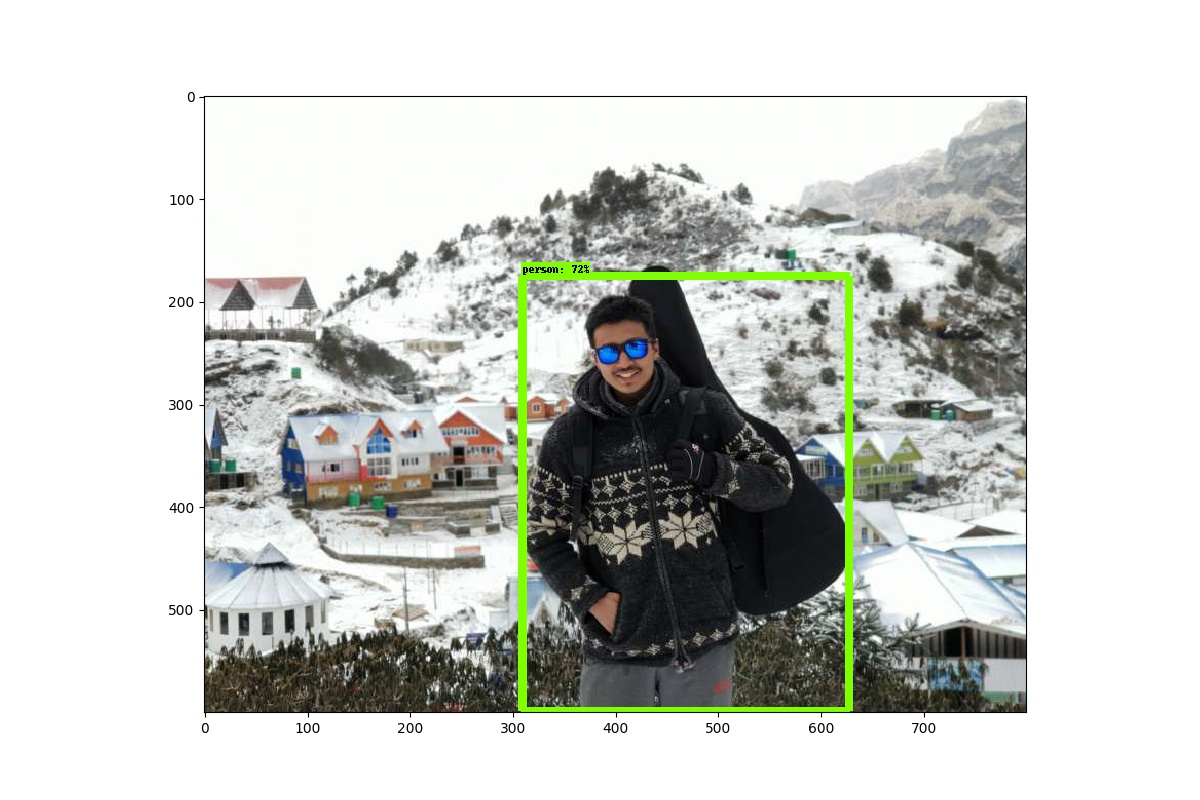
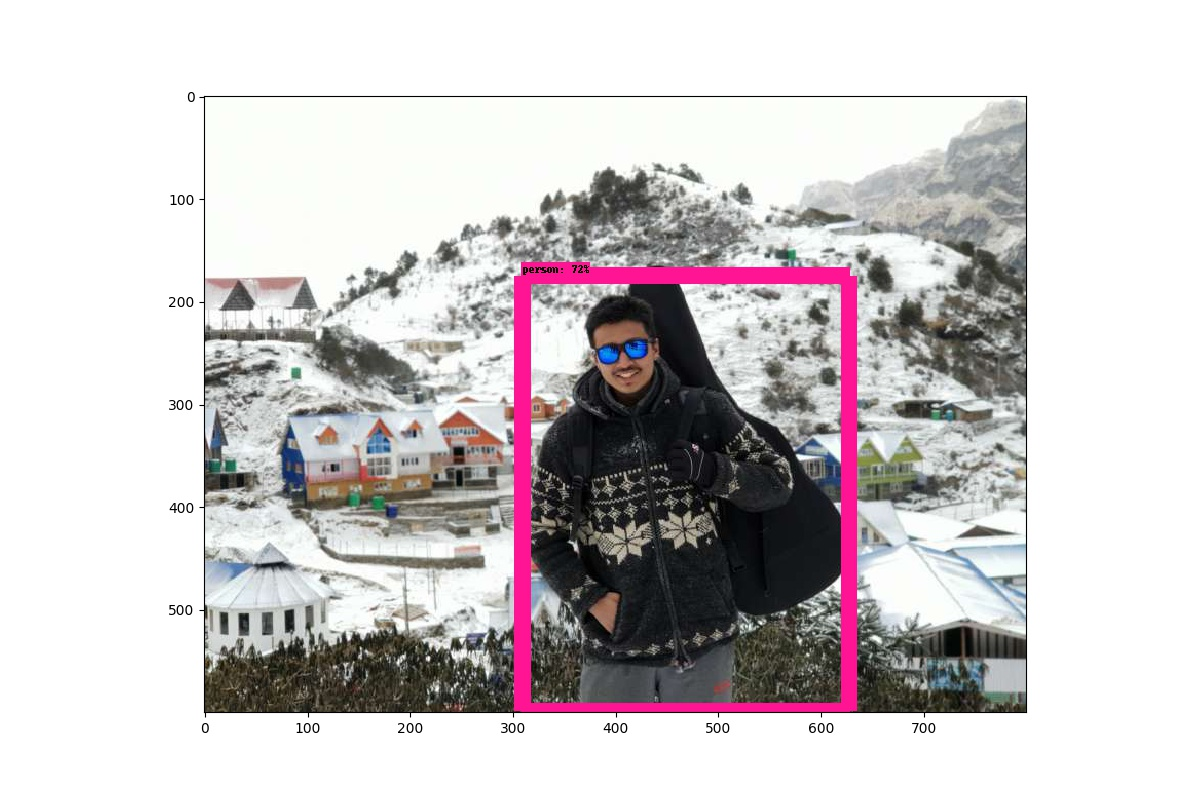
custom view also added

Changed region(s): [[0.4008, 0.3125, 0.74, 0.9062]]

diff --git a/templates/gallery.html b/templates/gallery.html
@@ -22,6 +22,10 @@
             <img class="img-responsive" src=" {{url_for('epic', filename=image_name)}}">
         </div>
 
+        <div>
+            Click <a href = "/show/{{image_name}}">here</a> for full view
+        </div>
+
     </div>
 </div>
 <script src="https://maxcdn.bootstrapcdn.com/bootstrap/3.3.6/js/bootstrap.min.js"

diff --git a/utils/visualization_utils.py b/utils/visualization_utils.py
@@ -127,7 +127,7 @@ def draw_bounding_box_on_image_array(image,
                                      ymax,
                                      xmax,
                                      color='red',
-                                     thickness=4,
+                                     thickness=8,
                                      display_str_list=(),
                                      use_normalized_coordinates=True):
   """Adds a bounding box to an image (numpy array).
@@ -191,13 +191,14 @@ def draw_bounding_box_on_image(image,
   """
   draw = ImageDraw.Draw(image)
   im_width, im_height = image.size
+  color = 'DeepPink'
   if use_normalized_coordinates:
     (left, right, top, bottom) = (xmin * im_width, xmax * im_width,
                                   ymin * im_height, ymax * im_height)
   else:
     (left, right, top, bottom) = (xmin, xmax, ymin, ymax)
   draw.line([(left, top), (left, bottom), (right, bottom),
-             (right, top), (left, top)], width=thickness, fill=color)
+             (right, top), (left, top)], width=36, fill=color)
   try:
     font = ImageFont.truetype('arial.ttf', 24)
   except IOError:
@@ -695,7 +696,7 @@ def visualize_boxes_and_labels_on_image_array(
     max_boxes_to_draw=20,
     min_score_thresh=.5,
     agnostic_mode=False,
-    line_thickness=4,
+    line_thickness=8,
     groundtruth_box_visualization_color='black',
     skip_scores=False,
     skip_labels=False,

diff --git a/model.py b/model.py
@@ -165,7 +165,6 @@ def final(image_path):
 
     plt.figure(figsize = image_size)
     plt.imshow(image_to_np)
-    out_as = uuid.uuid4().hex
     plt.savefig('out_here/' + image_path)
 
     return 'The file has successfully processed'
